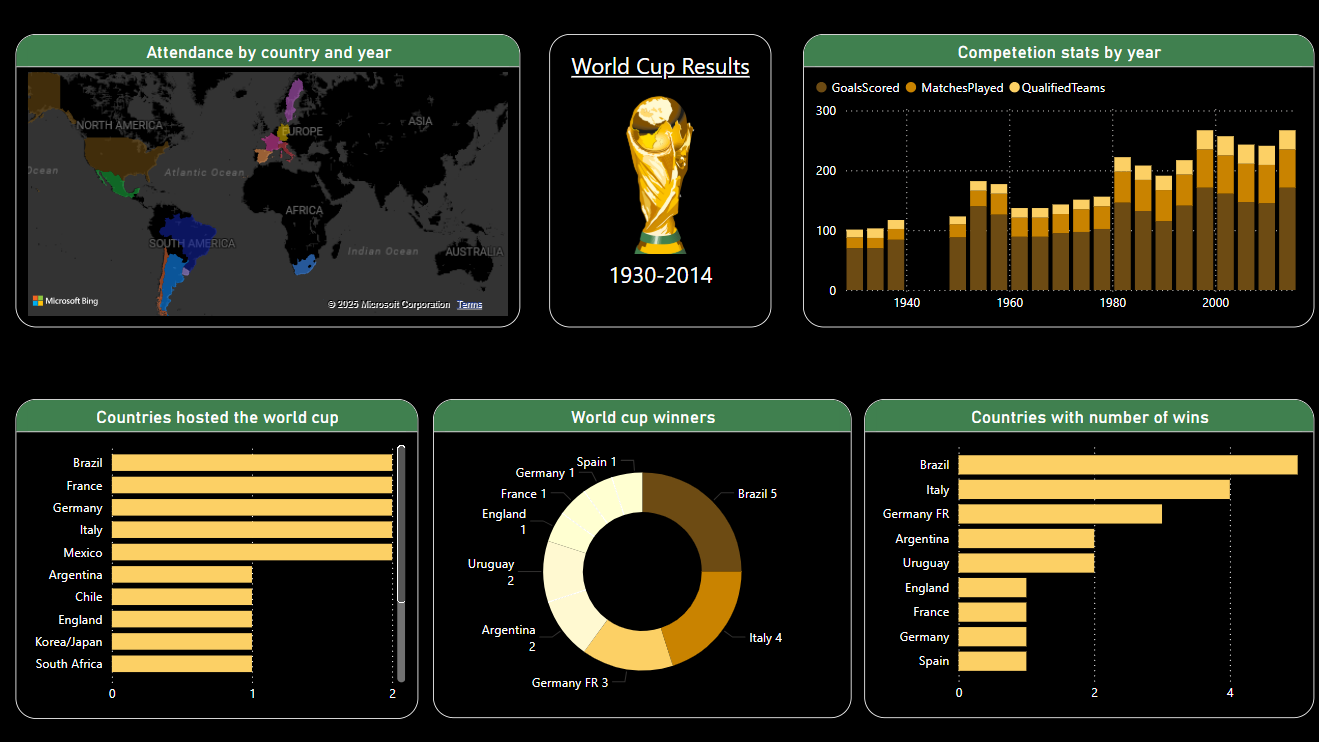
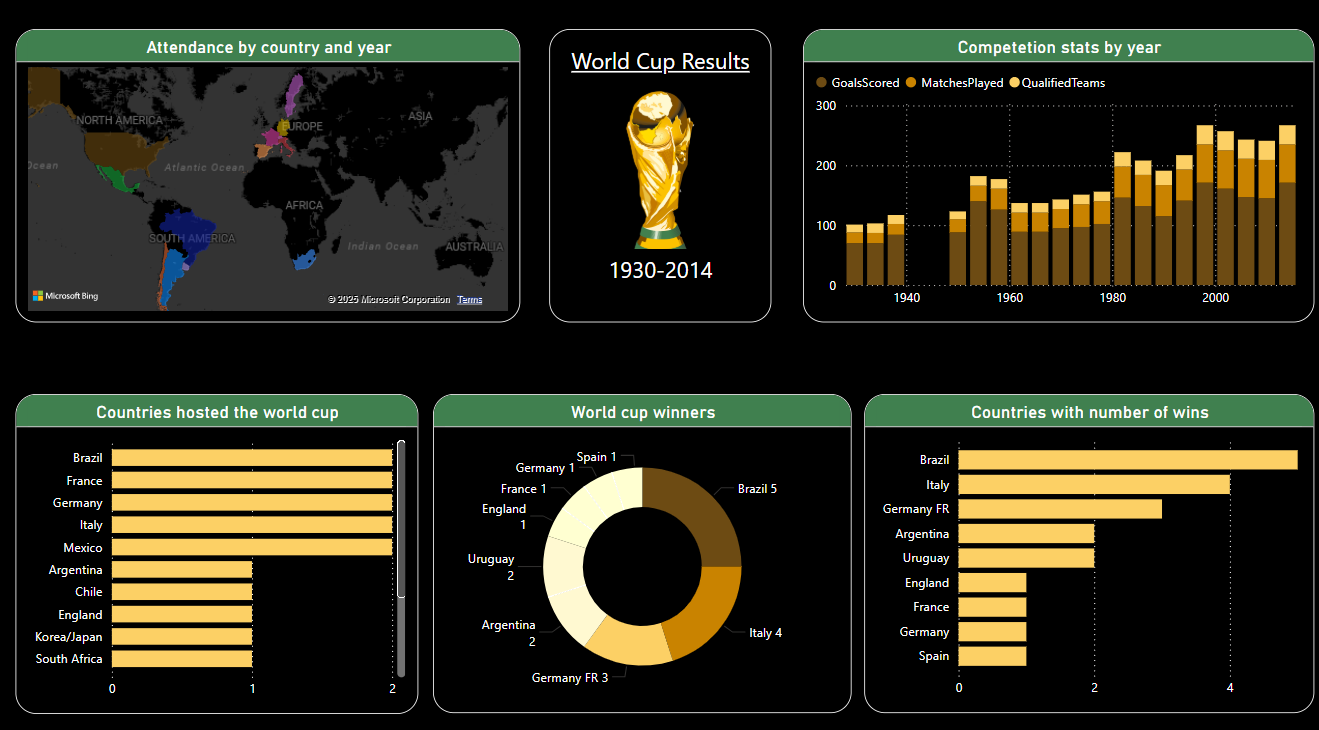
modify...

diff --git a/app/page.js b/app/page.js
@@ -198,7 +198,7 @@ export default function Home() {
               <figure>
                 <div>
                   <img src="./imgs/workplace-1.png" alt="Face Recognition Attendance System" width="100%" />
-                  <figcaption>Face Recognition Attendance System</figcaption>
+                  <figcaption>Face Recognition Attendance System using CNN</figcaption>
                 </div>
               </figure>
               <h3>Face Recognition Attendance System</h3>
@@ -210,12 +210,12 @@ export default function Home() {
             <article>
               <figure>
                 <div>
-                  <img src="./imgs/workplace-2_new.png" alt="Movie Recommendation System" width="100%" />
+                  <img src="./imgs/workplace-2_new.png" alt="Cine Match pro(Movie Recommender)" width="100%" />
                   <figcaption>Movie Recommendation System</figcaption>
                 </div>
               </figure>
               <h3>Movie Recommendation System</h3>
-              <a href="https://github.com/ganeshagrahari/Movie-Recommendation-System" className="github-link" target="_blank" rel="noopener noreferrer">
+              <a href="https://github.com/ganeshagrahari/Cine-Match-Pro-Movie-Recommender" className="github-link" target="_blank" rel="noopener noreferrer">
                 <img src="./imgs/github.png" alt="GitHub" width="20" />
                 View Code
               </a>
@@ -224,7 +224,7 @@ export default function Home() {
               <figure>
                 <div>
                   <img src="./imgs/workplace-3_new.png" alt="Reliance Sales Report" width="100%" />
-                  <figcaption>Reliance Sales Report</figcaption>
+                  <figcaption>Power BI Sales Report</figcaption>
                 </div>
               </figure>
               <h3>Reliance Sales Report</h3>
@@ -237,7 +237,7 @@ export default function Home() {
               <figure>
                 <div>
                   <img src="./imgs/MydeepseekSS.png" alt="My DeepSeek AI Assistant" width="100%" />
-                  <figcaption>My DeepSeek</figcaption>
+                  <figcaption>AI Assistant on Desktop using Ollama</figcaption>
                 </div>
               </figure>
               <h3>My DeepSeek AI Assistant</h3>
@@ -250,7 +250,7 @@ export default function Home() {
               <figure>
                 <div>
                   <img src="./imgs/SMS-SpamSS.png" alt="SMS Spam Classifier" width="100%" />
-                  <figcaption>Spam Detection System</figcaption>
+                  <figcaption>Spam Detection using Naive Bayes</figcaption>
                 </div>
               </figure>
               <h3>SMS/Email Spam Classifier</h3>
@@ -263,7 +263,7 @@ export default function Home() {
               <figure>
                 <div>
                   <img src="./imgs/ClimateChangeModel.png" alt="Climate Change Model" width="100%" />
-                  <figcaption>Climate Change Model</figcaption>
+                  <figcaption>Climate Change Model using Random Forest</figcaption>
                 </div>
               </figure>
               <h3>Climate Change Model</h3>
@@ -276,7 +276,7 @@ export default function Home() {
               <figure>
                 <div>
                   <img src="./imgs/fifa.png" alt="FIFA World Cup Analysis" width="100%" />
-                  <figcaption>FIFA World Cup Analysis</figcaption>
+                  <figcaption>Power BI World Cup Analysis</figcaption>
                 </div>
               </figure>
               <h3>FIFA World Cup Analysis</h3>
@@ -289,7 +289,7 @@ export default function Home() {
               <figure>
                 <div>
                   <img src="./imgs/WandaAI.png " alt="Wanda AI" width="100%" />
-                  <figcaption>AI Desktop Assistant</figcaption>
+                  <figcaption>AI Desktop Assistant using Python</figcaption>
                 </div>
               </figure>
               <h3>Wanda AI</h3>
